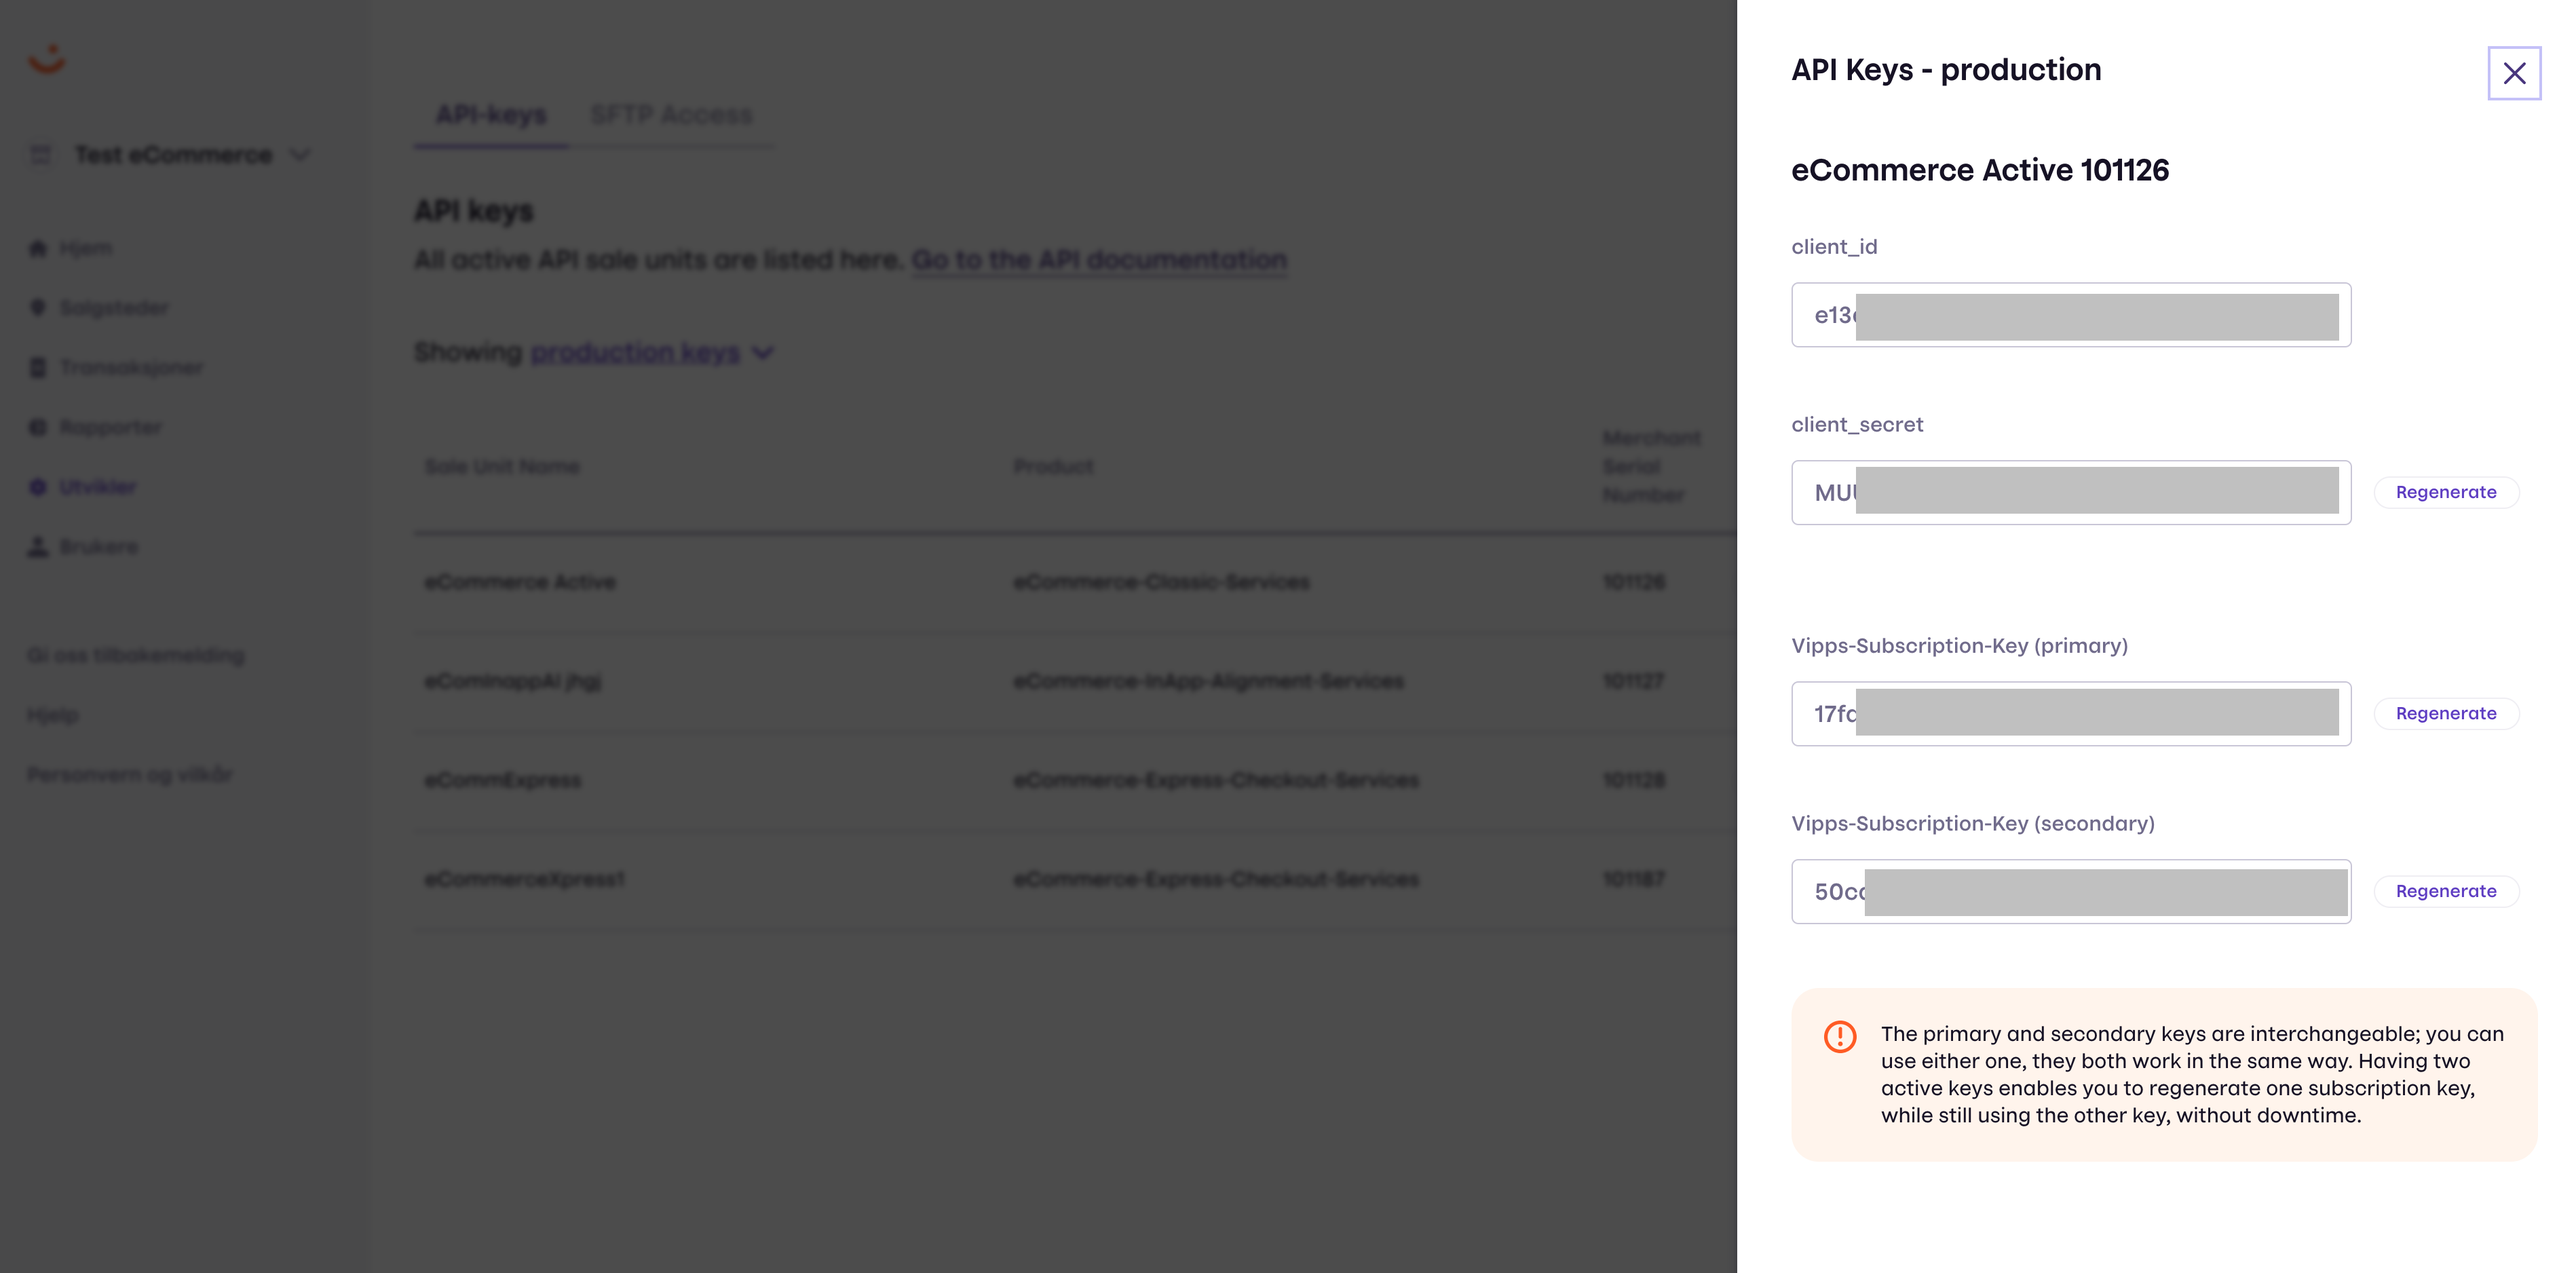
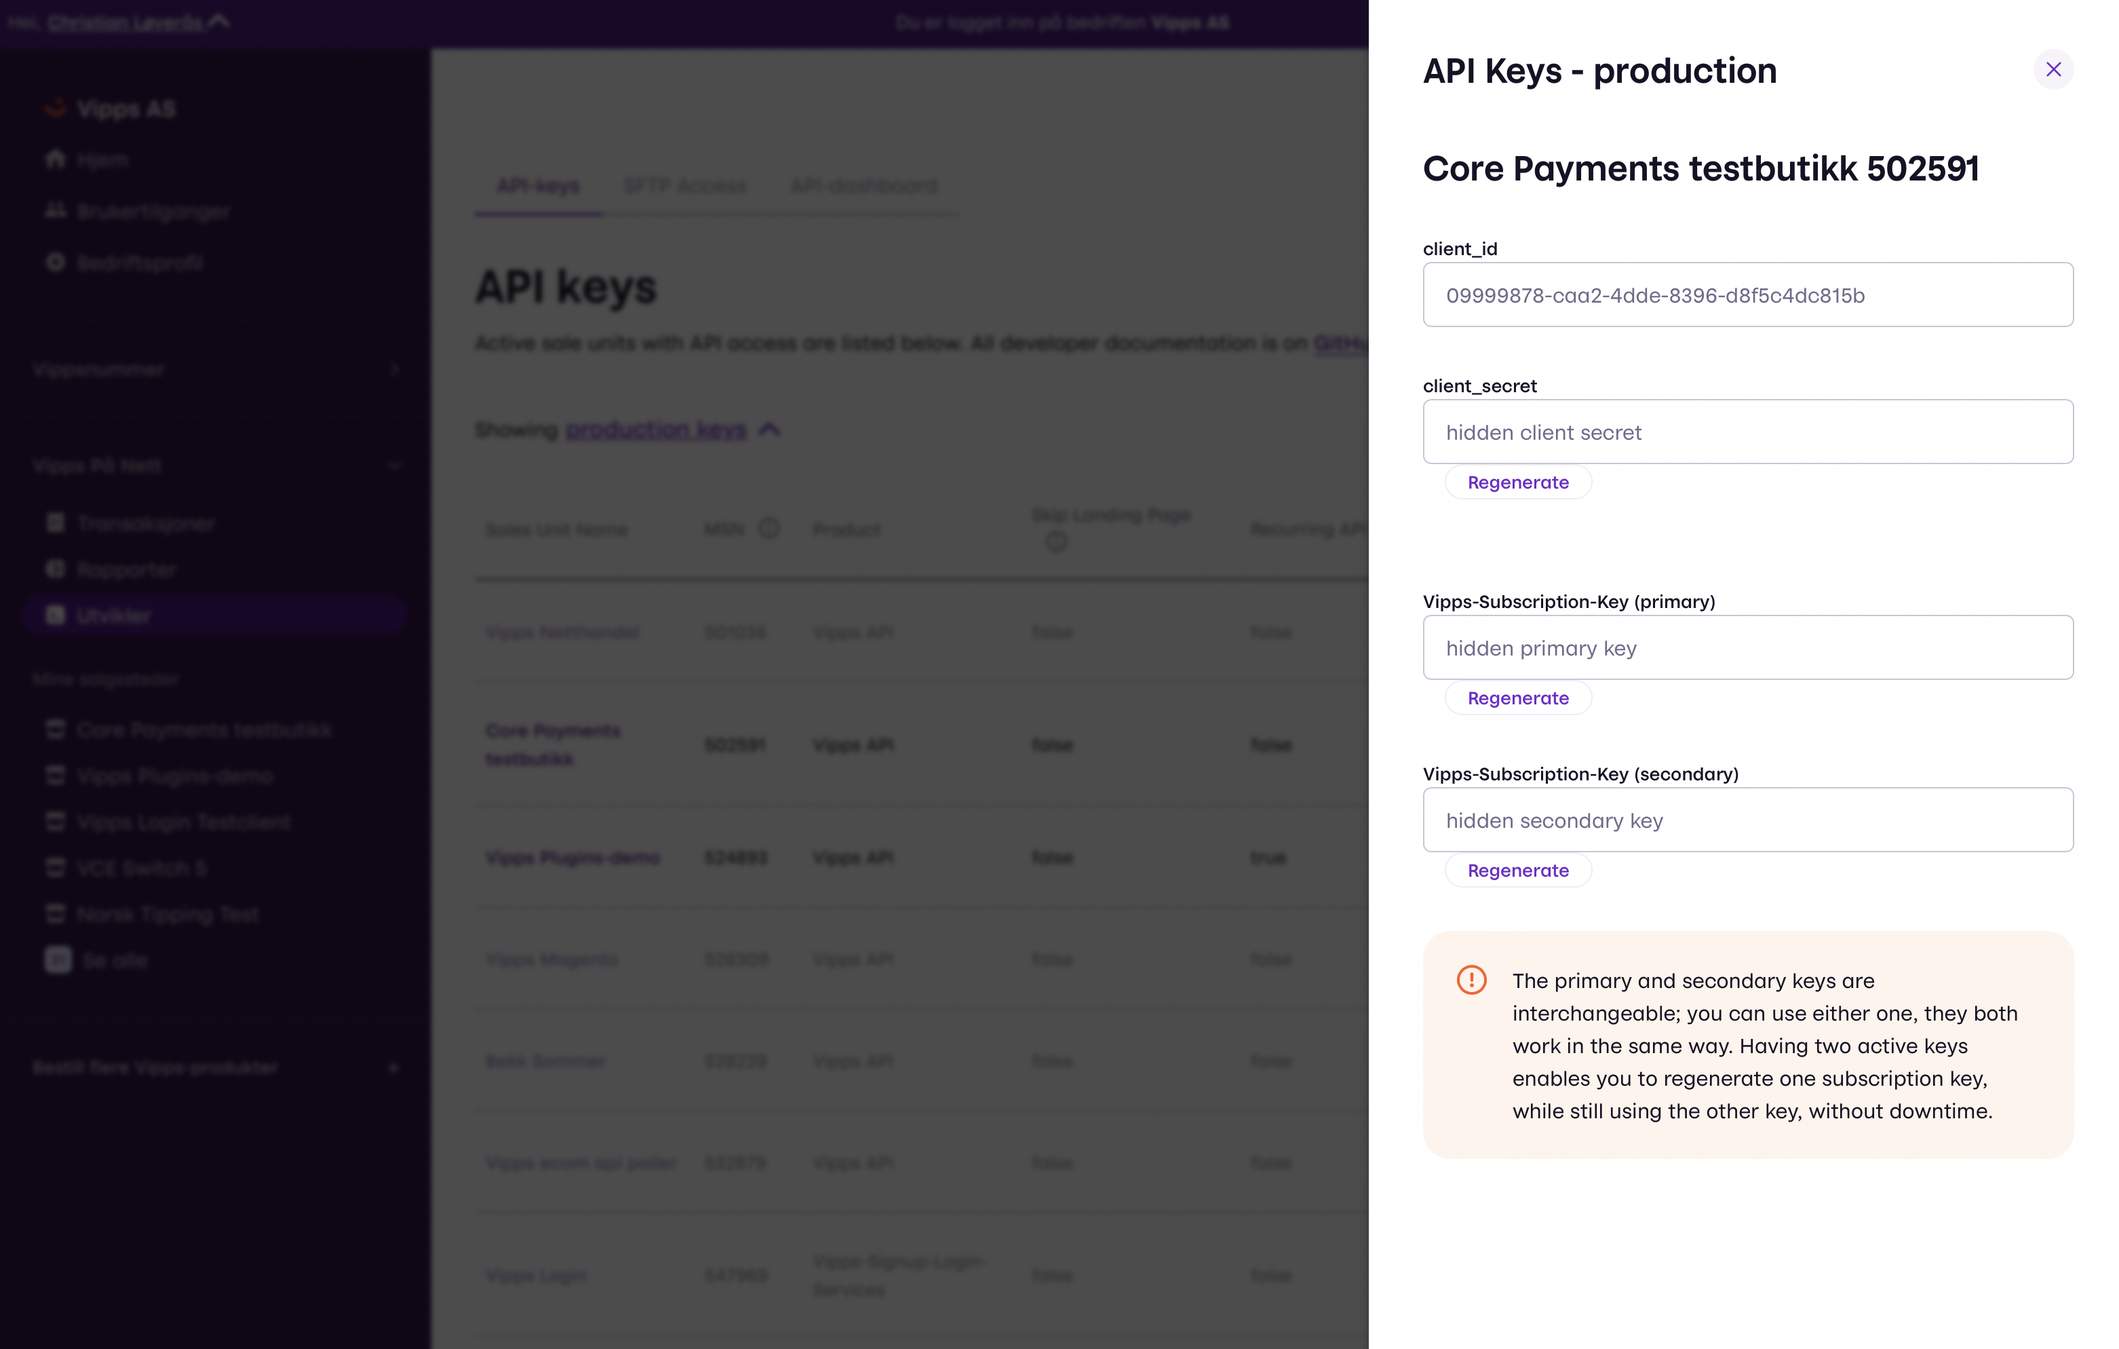
New portal images

diff --git a/vipps-getting-started.md b/vipps-getting-started.md
@@ -15,7 +15,7 @@ If you are using Vipps through an e-commerce platform, integration partner or PS
 * [Partner](https://vipps.no/produkter-og-tjenester/bedrift/ta-betalt-paa-nett/ta-betalt-paa-nett/#kom-i-gang-med-vipps-pa-nett-category-3)
 * [PSP](https://vipps.no/produkter-og-tjenester/bedrift/ta-betalt-paa-nett/ta-betalt-paa-nett/#kom-i-gang-med-vipps-pa-nett-category-2)
 
-Document version: 3.2.19.
+Document version: 3.2.20.
 
 # Table of contents
 
@@ -99,6 +99,7 @@ Since this gives access to API keys for both the test and production environment
 we require BankID.
 
 **Please note:**
+
 * Vipps can not provide API keys in any other way, such as by
   email, as the API keys give access to transferring money.
 * Vipps will never ask for your API keys, and you must keep them secret.
@@ -112,19 +113,27 @@ we require BankID.
 
 If you do not have BankID,
 or you have BankID but not access to the right merchant,
-you will need the administrator to log in
+you will need the merchant's administrator to log in on
 [portal.vipps.no](https://portal.vipps.no)
 and provide the API keys to you in a secure way.
 
-The merchant's administrator can create additional users on
+The merchant's administrator can also create additional users on
 [portal.vipps.no](https://portal.vipps.no).
 If you don't know who the administrator is, you can check
 [Brønnøysundregistrene](https://www.brreg.no)
 and see who has the right to sign for the company.
 
 If you can login to [portal.vipps.no](https://portal.vipps.no) but cannot see
-the “developer” selection in the top-menu you need to have the administrator
-grant you developer access for the sales unit you need access to.
+the "Utvikler" (developer) selection in the menu you need to have the
+merchant's administrator grant you developer access for the sales unit you
+need access to.
+
+For integration partners: You will need the merchant's administrator to either
+log in on
+[portal.vipps.no](https://portal.vipps.no)
+and grant you developer access for the sales unit you need access to,
+or provide the API keys to you in a secure way. See also:
+[Vippps Partners](https://github.com/vippsas/vipps-partner).
 
 ## Test and production environments
 
